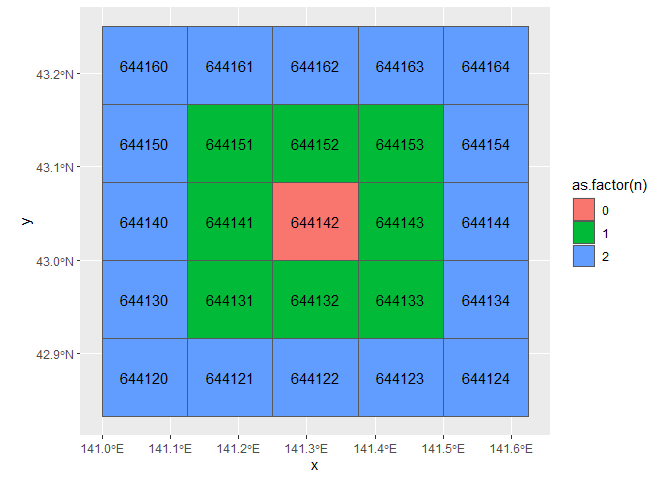
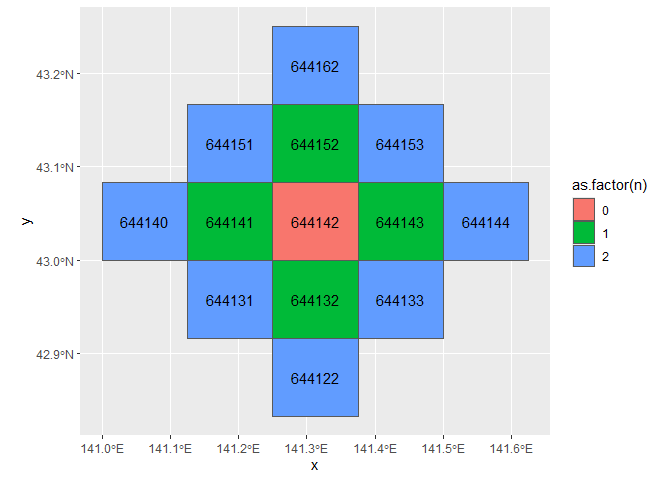
Update README

diff --git a/README.md b/README.md
@@ -120,24 +120,39 @@ x <- c("53394526313", "5339358633", "533945764", "53394611", "523503", "5339", N
 parse_grid(x, grid_size = "80km")
 #> <grid_80km[7]>
 #> [1] <NA> <NA> <NA> <NA> <NA> 5339 <NA>
+```
+
+``` r
 parse_grid(x, grid_size = "125m")
 #> <grid_125m[7]>
 #> [1] 53394526313 <NA>        <NA>        <NA>        <NA>        <NA>       
 #> [7] <NA>
+```
+
+``` r
 parse_grid(x)
 #> Guessing, grid_size = "80km"
 #> <grid_80km[7]>
 #> [1] <NA> <NA> <NA> <NA> <NA> 5339 <NA>
+```
+
+``` r
 
 parse_grid(x, "80km",
            strict = FALSE)
 #> <grid_80km[7]>
 #> [1] 5339 5339 5339 5339 5235 5339 <NA>
+```
+
+``` r
 parse_grid(x, "125m",
            strict = FALSE)
 #> <grid_125m[7]>
 #> [1] 53394526313 <NA>        <NA>        <NA>        <NA>        <NA>       
 #> [7] <NA>
+```
+
+``` r
 parse_grid(x, 
            strict = FALSE)
 #> Guessing, grid_size = "80km"
@@ -159,6 +174,9 @@ grid_500m <- parse_grid("533945764", "500m")
 grid_convert(grid_500m, "1km")
 #> <grid_1km[1]>
 #> [1] 53394576
+```
+
+``` r
 
 grid_100m <- grid_subdivide(grid_500m, "100m")
 grid_100m
@@ -169,6 +187,9 @@ grid_100m
 #> [13] 5339457677 5339457687 5339457697 5339457658 5339457668 5339457678
 #> [19] 5339457688 5339457698 5339457659 5339457669 5339457679 5339457689
 #> [25] 5339457699
+```
+
+``` r
 
 tibble(grid_100m = grid_100m[[1]]) |> 
   grid_as_sf(crs = JGD2011) |>  
@@ -213,37 +234,39 @@ tibble(grid = parse_grid(c("5339452660", "5235034590"), "100m")) |>
 
 ### 隣接メッシュの算出
 
-`grid_neighbor()`関数は，隣接するメッシュを算出します．
+`grid_neighborhood()`関数は，隣接するメッシュを算出します．
 
 - `n`を指定することでn次隣接メッシュの算出が可能
-- `moore = FALSE`でノイマン近傍での算出が可能
+- `type = "von_neumann"`でノイマン近傍,
+  `type = "moore"`でムーア近傍を指定可能
 
 ``` r
-neighbor <- parse_grid("644142", "10km") |> 
-  grid_neighbor(n = c(0:2),
-                simplify = FALSE)
+neighborhood <- parse_grid("644142", "10km") |> 
+  grid_neighborhood(n = c(0:2),
+                    type = "von_neumann",
+                    simplify = FALSE)
 
-neighbor[[1]] |> 
+neighborhood[[1]] |> 
   grid_as_sf(crs = JGD2011) |> 
   
   ggplot(aes(fill = as.factor(n))) +
   geom_sf() +
-  geom_sf_text(aes(label = as.character(grid_neighbor)))
+  geom_sf_text(aes(label = as.character(grid_neighborhood)))
 ```
 
 <img src="man/figures/README-unnamed-chunk-10-1.png" width="100%" />
 
 ``` r
-neighbor_neumann <- parse_grid("644142", "10km") |> 
-  grid_neighbor(n = c(0:2),
-                simplify = F,
-                moore = F)
+neighborhood <- parse_grid("644142", "10km") |> 
+  grid_neighborhood(n = c(0:2),
+                    type = "moore",
+                    simplify = FALSE)
 
-neighbor_neumann[[1]] |> 
+neighborhood[[1]] |> 
   grid_as_sf(crs = JGD2011) |> 
   ggplot(aes(fill = as.factor(n))) +
   geom_sf() +
-  geom_sf_text(aes(label = as.character(grid_neighbor)))
+  geom_sf_text(aes(label = as.character(grid_neighborhood)))
 ```
 
 <img src="man/figures/README-unnamed-chunk-11-1.png" width="100%" />
@@ -315,6 +338,6 @@ print(distance)
 
 本パッケージのメッシュ・緯度経度間の変換速度は，jpmeshパッケージと比べて数十～数百倍ほど高速です．
 
-<img src="man/figures/README-microbenchmark-coords-to-grid.png" width="100%" />
+<img src="man/figures/README-microbenchmark-coords-to-grid.png" width="100%"/>
 
-<img src="man/figures/README-microbenchmark-grid-to-coords.png" width="100%" />
+<img src="man/figures/README-microbenchmark-grid-to-coords.png" width="100%"/>

diff --git a/README.en.md b/README.en.md
@@ -122,24 +122,39 @@ x <- c("53394526313", "5339358633", "533945764", "53394611", "523503", "5339", N
 parse_grid(x, grid_size = "80km")
 #> <grid_80km[7]>
 #> [1] <NA> <NA> <NA> <NA> <NA> 5339 <NA>
+```
+
+``` r
 parse_grid(x, grid_size = "125m")
 #> <grid_125m[7]>
 #> [1] 53394526313 <NA>        <NA>        <NA>        <NA>        <NA>       
 #> [7] <NA>
+```
+
+``` r
 parse_grid(x)
 #> Guessing, grid_size = "80km"
 #> <grid_80km[7]>
 #> [1] <NA> <NA> <NA> <NA> <NA> 5339 <NA>
+```
+
+``` r
 
 parse_grid(x, "80km",
            strict = FALSE)
 #> <grid_80km[7]>
 #> [1] 5339 5339 5339 5339 5235 5339 <NA>
+```
+
+``` r
 parse_grid(x, "125m",
            strict = FALSE)
 #> <grid_125m[7]>
 #> [1] 53394526313 <NA>        <NA>        <NA>        <NA>        <NA>       
 #> [7] <NA>
+```
+
+``` r
 parse_grid(x, 
            strict = FALSE)
 #> Guessing, grid_size = "80km"
@@ -162,6 +177,9 @@ grid_500m <- parse_grid("533945764", "500m")
 grid_convert(grid_500m, "1km")
 #> <grid_1km[1]>
 #> [1] 53394576
+```
+
+``` r
 
 grid_100m <- grid_subdivide(grid_500m, "100m")
 grid_100m
@@ -172,6 +190,9 @@ grid_100m
 #> [13] 5339457677 5339457687 5339457697 5339457658 5339457668 5339457678
 #> [19] 5339457688 5339457698 5339457659 5339457669 5339457679 5339457689
 #> [25] 5339457699
+```
+
+``` r
 
 tibble(grid_100m = grid_100m[[1]]) |> 
   grid_as_sf(crs = JGD2011) |>  
@@ -218,37 +239,39 @@ tibble(grid = parse_grid(c("5339452660", "5235034590"), "100m")) |>
 
 ### Calculation of adjacent grid square codes
 
-The `grid_neighbor()` function calculates the neighboring grids.
+The `grid_neighborhood()` function calculates the neighboring grids.
 
 - nth order neighboring grids can be calculated by specifying `n`.
-- Can be calculated in a Neumann neighborhood with `moore = FALSE`.
+- You can specify a Neumann neighborhood with `type = "von_neumann"` and
+  a Moore neighborhood with `type = "moore"`.
 
 ``` r
-neighbor <- parse_grid("644142", "10km") |> 
-  grid_neighbor(n = c(0:2),
-                simplify = FALSE)
+neighborhood <- parse_grid("644142", "10km") |> 
+  grid_neighborhood(n = c(0:2),
+                    type = "von_neumann",
+                    simplify = FALSE)
 
-neighbor[[1]] |> 
+neighborhood[[1]] |> 
   grid_as_sf(crs = JGD2011) |> 
   
   ggplot(aes(fill = as.factor(n))) +
   geom_sf() +
-  geom_sf_text(aes(label = as.character(grid_neighbor)))
+  geom_sf_text(aes(label = as.character(grid_neighborhood)))
 ```
 
 <img src="man/figures/README-unnamed-chunk-10-1.png" width="100%" />
 
 ``` r
-neighbor_neumann <- parse_grid("644142", "10km") |> 
-  grid_neighbor(n = c(0:2),
-                simplify = F,
-                moore = F)
+neighborhood <- parse_grid("644142", "10km") |> 
+  grid_neighborhood(n = c(0:2),
+                    type = "moore",
+                    simplify = FALSE)
 
-neighbor_neumann[[1]] |> 
+neighborhood[[1]] |> 
   grid_as_sf(crs = JGD2011) |> 
   ggplot(aes(fill = as.factor(n))) +
   geom_sf() +
-  geom_sf_text(aes(label = as.character(grid_neighbor)))
+  geom_sf_text(aes(label = as.character(grid_neighborhood)))
 ```
 
 <img src="man/figures/README-unnamed-chunk-11-1.png" width="100%" />
